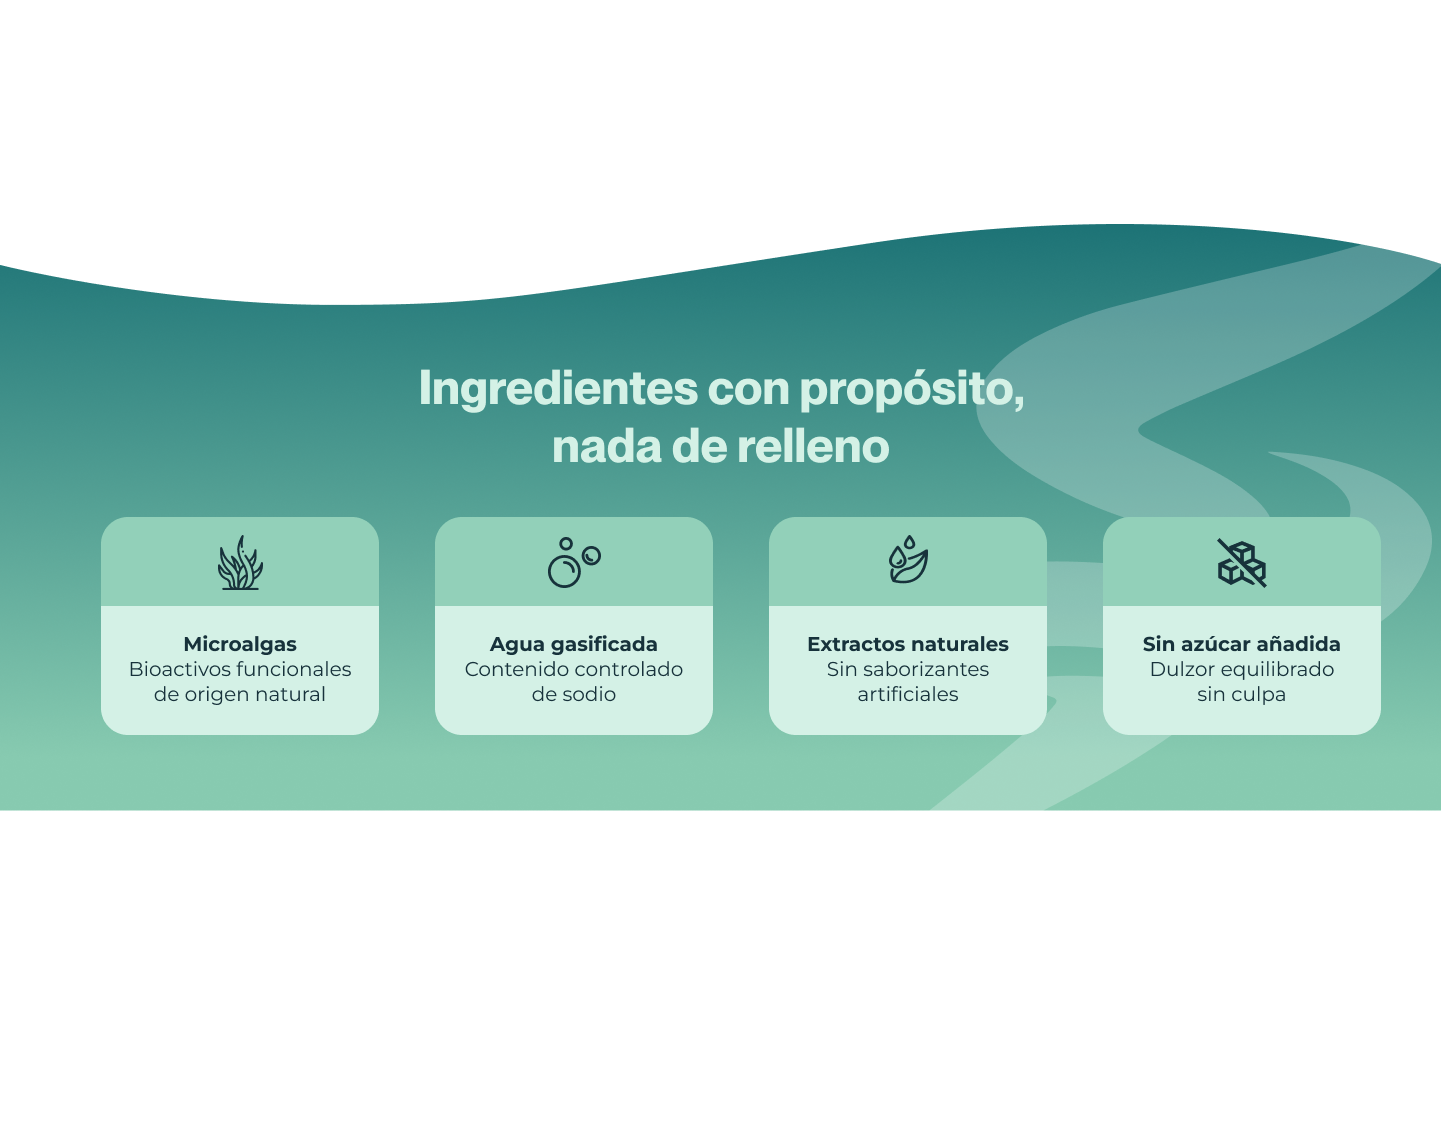
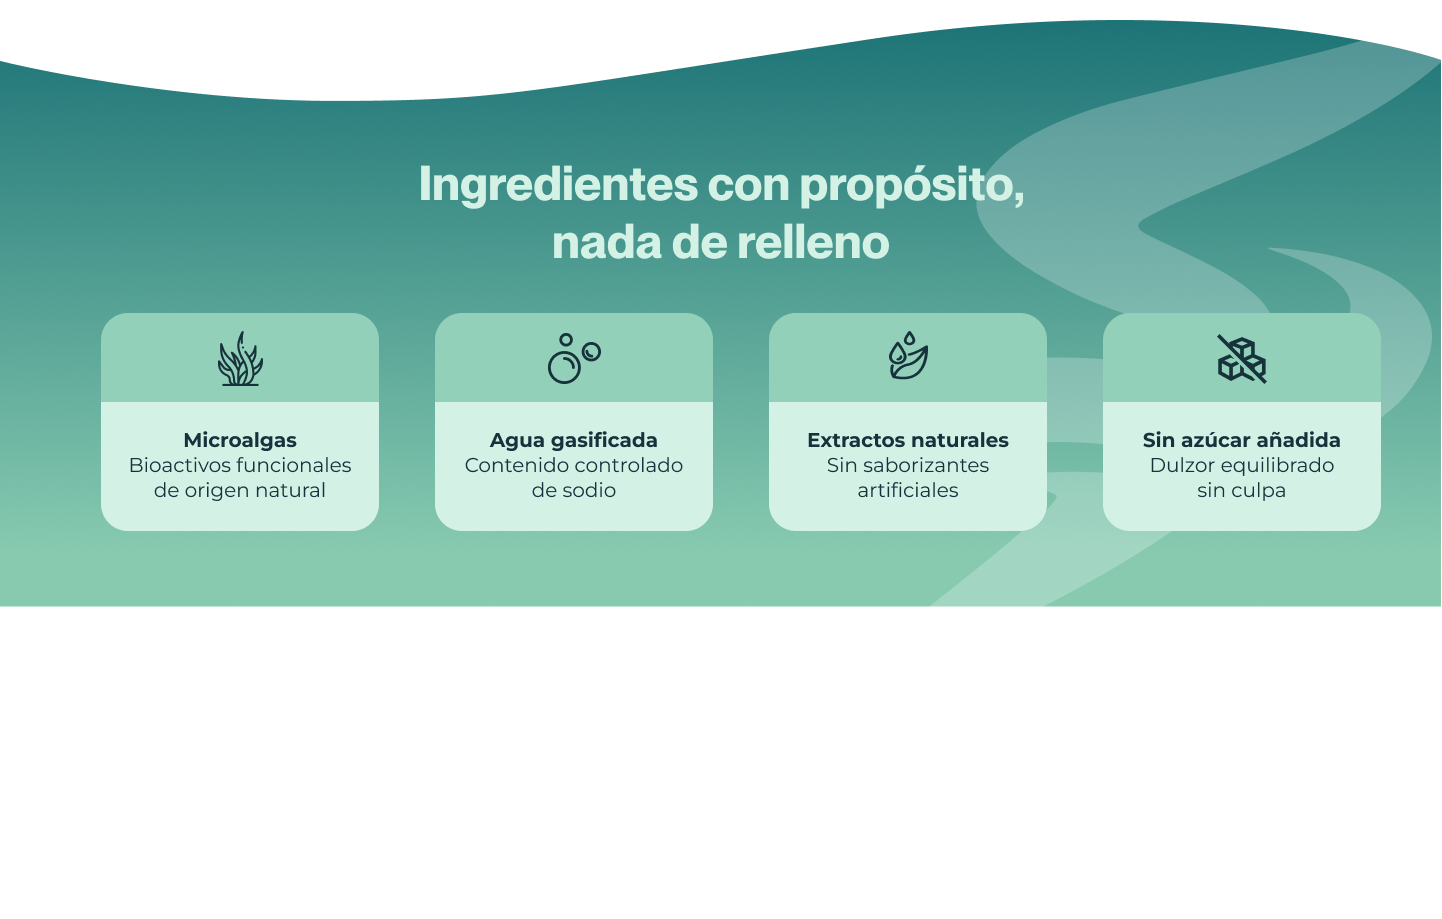
parte3: recortar transparencia superior + solape -1.5vw = corte exacto sin franja blanca

diff --git a/wp-content/themes/astra-child/style.css b/wp-content/themes/astra-child/style.css
@@ -475,7 +475,7 @@ html { scroll-behavior: smooth; }
 	display: block;
 	width: 100%;
 	height: auto;
-	margin-top: -7vw;   /* la ola queda mas abajo, con franja cream (como el mockup) */
+	margin-top: -1.5vw;   /* imagen recortada: la ola toca el borde de la piscina, corte exacto */
 	position: relative;
 	z-index: 2;
 }
